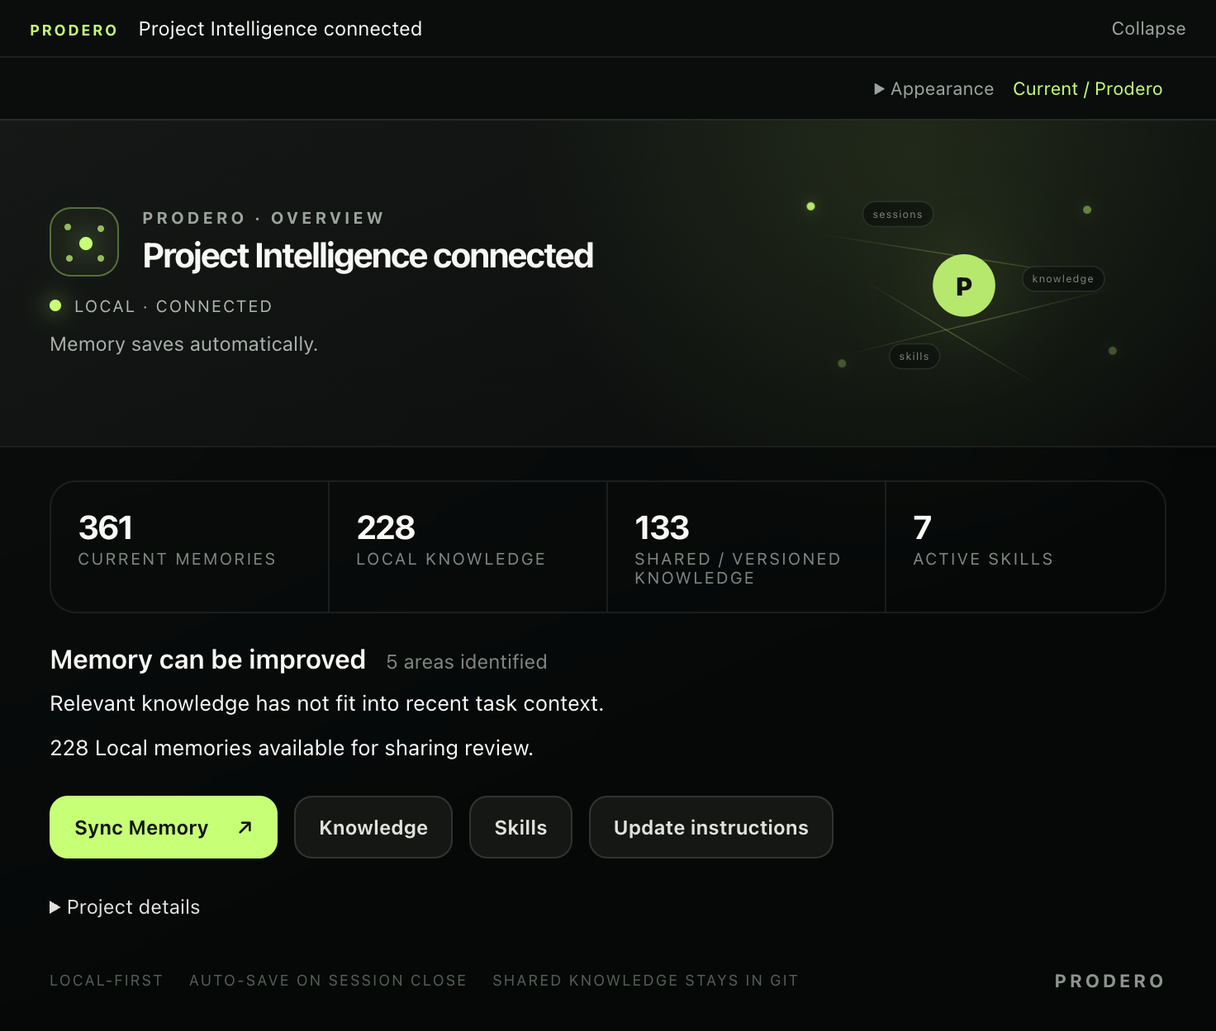
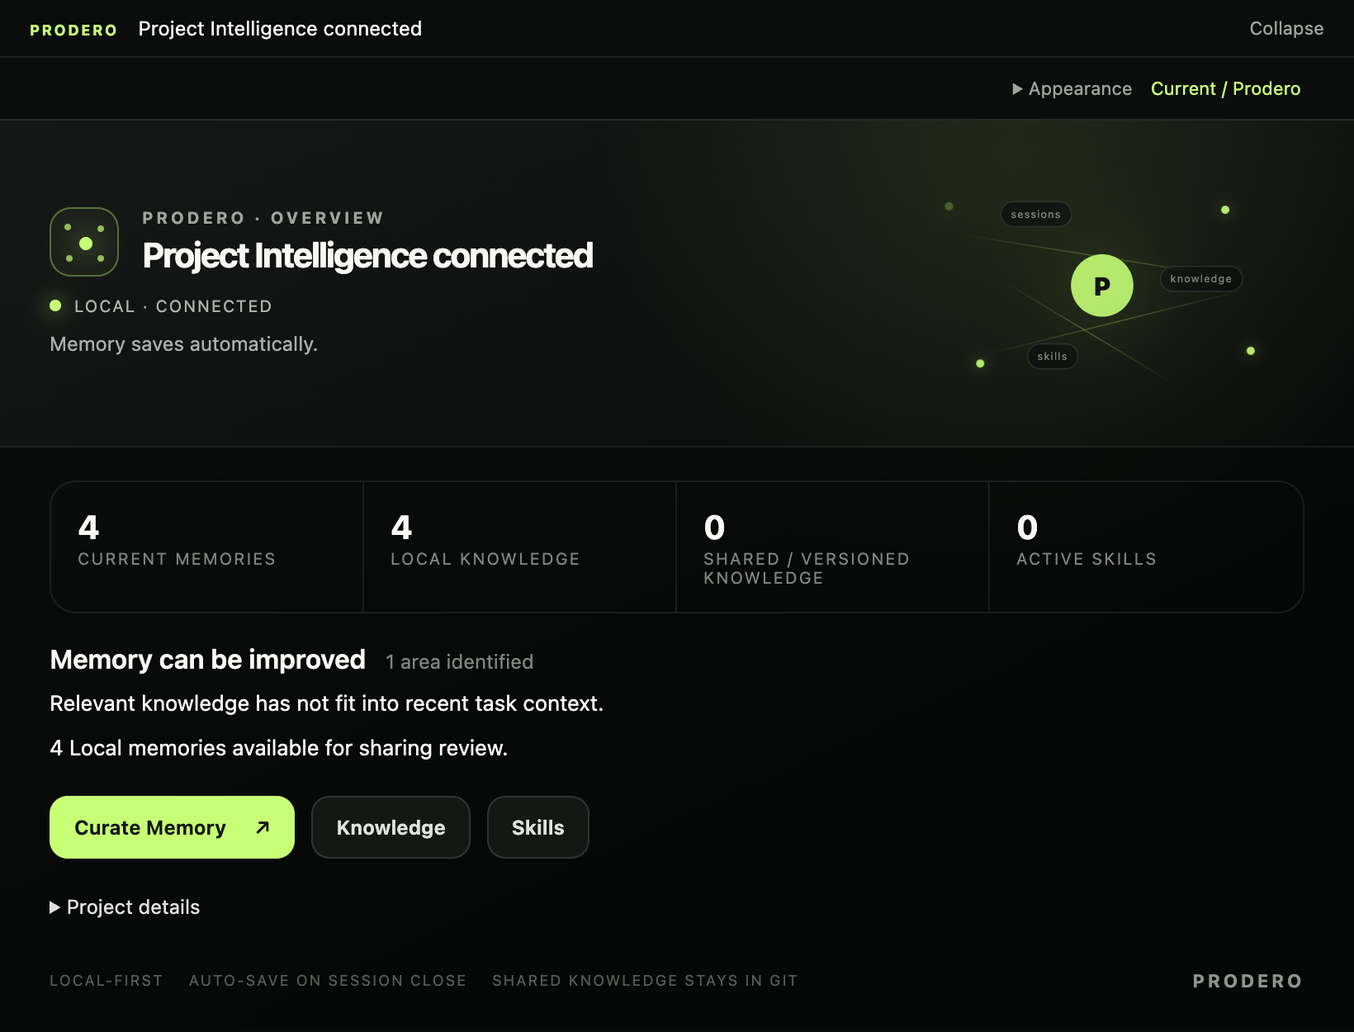
docs: clean up public release copy and refresh Curate Memory screenshot

diff --git a/docs/COMPATIBILITY.md b/docs/COMPATIBILITY.md
@@ -1,6 +1,6 @@
 # Compatibility and verification
 
-This document covers the **0.2.0** release contract and evidence recorded through 2026-10-23. A checkout, local tarball or passing test does not establish npm publication. Artifact evidence must satisfy the [release gates](RELEASING.md) on the final release tree. Supported runtime targets and project/knowledge schemas remain unchanged; see the [changelog](../CHANGELOG.md) for status JSON and local-preference compatibility changes.
+Curator **0.2.0 Public Preview** was published on **2026-10-25**. This page lists supported runtimes, tested clients, verification results and known limitations. See the [changelog](../CHANGELOG.md) for the status JSON and local-preference compatibility changes.
 
 > Contract: Local/Versioned describe Git storage and sharing, not a security boundary against the connected agent. Review and approval are workflow safeguards, not authenticated human consent. The agent may create, promote and maintain Versioned files within current authorization. Curator tools do not execute Git commit or push; coding-agent Git actions follow current user scope and host approval controls. See [Privacy](PRIVACY.md).
 
@@ -9,22 +9,22 @@ Supported runtime target: **Node 22.14.0–22.x**, npm and Git. Node 22.14.0 is 
 | Environment | Status |
 | --- | --- |
 | macOS ARM64, Node 22.14.0 | Tested locally: full tests and isolated release gate |
-| macOS / Ubuntu, Node 22.14.0 and 22.23.3 | Full four-job CI matrix passed on the runtime candidate identified below; final-tree certification requires matching exact-SHA runs |
+| macOS / Ubuntu, Node 22.14.0 and 22.23.3 | Full four-job release matrix passed on the published release commit; see the verification results below |
 | Native Windows | Not supported in 0.2.0; filesystem/Git fixtures and process behavior are not verified |
 | Node 20, 24 or other majors; WSL | Not verified / outside the initial runtime contract |
 
-CI configuration is not evidence that a remote run has passed. Record actual runs before publication.
+The built-in terminal updater additionally requires **npm 10.9.x** and an ordinary same-user global npm installation. Other installation layouts or toolchains need their package manager; see [updates](hosts.md#updates-and-advanced-project-commands).
 
 ## Hosts
 
 | Host | Status / boundary |
 | --- | --- |
 | Codex CLI | Native 0.144.4 on macOS ARM64 passed installed 0.2.0 text lifecycle, persistent retrieval, Local maintenance and promotion preview. No Apps rendering claim from a CLI test. |
-| Codex desktop | The owner reported a successful manual check on 2026-10-23. Exact-build, artifact-bound graphical acceptance is not independently traced; see the owner report below. |
+| Codex desktop | Successful manual check reported by the maintainer on 2026-10-23; detailed build and per-case Apps results were not recorded. |
 | Claude Code | Experimental adapter. Native 2.1.302 on macOS ARM64 passed installed 0.2.0 text lifecycle, persistent retrieval, Local maintenance and promotion preview. This does not certify Claude Desktop or Apps rendering. |
 | Claude Desktop | No installer adapter; not verified. |
-| Codex mobile / iPad | The owner reported a successful Codex Mobile manual check on 2026-10-23 and previously accepted iPad Context Ready / Session Complete. Build/artifact binding and individual case traces were not supplied. |
-| Cursor | Not yet verified against this RC. Workspace and Apps behavior must be checked before claiming support. |
+| Codex mobile / iPad | Successful manual check reported on 2026-10-23, with earlier iPad Context Ready / Session Complete acceptance. |
+| Cursor | Detection-only; workspace and Apps workflows are not verified. |
 | Other MCP hosts | Experimental; require standard stdio tools, optional roots and optional Apps/sampling. |
 
 Use `prodero install` for one global machine integration. New workspaces initialize directly through MCP. Negotiated host roots authorize project selection; Claude's captured host project directory selects the primary root, and supported local Codex stdio launches supply the workspace through their launch directory. `projectRoot` is a checked selector, not authority. Missing supported context fails closed; no manual allowlist, per-project registration or CLI initialization is required. Explicit `--root` remains an optional hard boundary. Both integrations use the absolute public `prodero` executable: `mcp` for the installed package and `mcp --dev` for the saved Curator checkout. The public executable captures workspace context before loading development code. Update old global integration once and reconnect; `npm --prefix` is not a supported outer launcher. Managed PATH resolves the shebang to the verified Node installation. See [host integration](hosts.md) and [workspace trust contract](PRIVACY.md).
@@ -35,11 +35,11 @@ Historical machine-integration verification used isolated HOME and the native gl
 
 Claude Code does not automatically read project `AGENTS.md`. Initialization remains unchanged; experimental Claude users need the host's documented project `CLAUDE.md` import of `@AGENTS.md` for the existing project lifecycle instructions. The installer does not create that project file or move lifecycle instructions into the global launcher. See [host integration](hosts.md). Restart hosts after package updates.
 
-## RC evidence
+## Release verification
 
-The [release gate](RELEASING.md) checks a clean installed artifact, stdio lifecycle, Local storage, reviewed synthetic sharing, restart and synthetic patch upgrade preservation. Synthetic upgrades do not certify future releases or arbitrary schema downgrades. Record results for the exact release candidate.
+The [release gate](RELEASING.md) checks a clean installed artifact, stdio lifecycle, Local storage, reviewed synthetic sharing, restart and synthetic patch upgrade preservation. Synthetic upgrades do not certify future releases or arbitrary schema downgrades.
 
-### Runtime candidate: independently observed
+### Native text checks — 2026-10-23
 
[1 lines of base64/hex data omitted]
 
@@ -47,15 +47,17 @@ On 2026-10-23 both native clients connected only to that installed 0.2.0 candida
 
 Single-session maintenance visibly delivered Context Ready and Saved once in each client. In the batched two-session scenario each client omitted some intermediate receipts; persistence and closure still succeeded. This is an observed agent-relay limitation, not demonstrated knowledge loss. Curator supplies lifecycle text but does not guarantee model/client delivery. Apps rendering, host sampling and physical approval interaction were not independently verified by these CLI runs. Separate deterministic fixtures cover publication mechanics without claiming human UI approval.
 
-### Owner-reported manual acceptance
+### Manual host checks
 
-On 2026-10-23 the owner reported successful manual Curator checks in **Codex Desktop, Claude CLI and Codex Mobile**, following the request for manual Apps acceptance. Record this as **owner-reported acceptance** for those named surfaces. The report did not supply client build versions, an exact candidate executable/hash/SHA, individual case results or an App call trace. It therefore does not establish independently traced results for Apply replay, stale-review handling or model-facing tool filtering, and does not upgrade an unverified host tier. Do not infer that the desktop used a particular dev connection or that the Claude CLI was the exact build used by the independent native test. Candidate binding can be clarified without assuming the entire manual check must be repeated. The previously accepted iPad lifecycle result remains accepted.
+On 2026-10-23 the maintainer reported successful manual checks in **Codex Desktop, Claude CLI and Codex Mobile**. Client build versions, exact artifact identity and individual case traces were not recorded. These reports are separate from the versioned native CLI runs above and do not establish per-case Apps coverage for Apply replay, stale reviews or tool filtering. The earlier iPad lifecycle check also passed by user confirmation. Claude Code remains experimental.
 
-### Final release identity
+### Published 0.2.0 identity
 
-These CI and native results identify the runtime candidate above. Release-note/README/compatibility edits change packaged bytes and produce a different tarball; they do not inherit its archive hash or exact-commit CI status. The final committed release tree requires its own matching package validation and full CI matrix, with host evidence explicitly bound or reconciled to the final artifact. No broader host support is inferred from a successful owner report.
+The published package and [v0.2.0 tag](https://github.com/Prodero/curator/releases/tag/v0.2.0) identify commit **`d180a58017b9e2e32731689411b420fa899aa884`**. Its [full release matrix](https://github.com/Prodero/curator/actions/runs/39999946126) passed all four macOS/Ubuntu × Node 22.14.0/22.23.3 jobs, each with **1,453 tests and 16 installed-artifact smoke groups**. [Post-main CI](https://github.com/Prodero/curator/actions/runs/40132635896) and the [tag matrix](https://github.com/Prodero/curator/actions/runs/40175313983) also passed on that same SHA. Counts overlap and are not additive.
 
-Passing configured remote CI jobs on the final RC commit remains required before publication. Local protocol checks do not certify other Node/OS combinations or host App rendering.
[1 lines of base64/hex data omitted]
+
+Compared with the native-tested runtime candidate above, the published artifact changes four Markdown files; the other 144 payload files, including runtime, App, plugin and instruction assets, are identical. This preserves the scope of those native checks without treating the two archive hashes as interchangeable. The frozen tag and archive describe the published package even when documentation on `main` is updated later. CI does not expand the supported Node/OS or host Apps coverage listed here.
 
 Codex setup and per-tool configuration reference: [official configuration reference](https://developers.openai.com/codex/config-reference).
 

diff --git a/docs/hosts.md b/docs/hosts.md
@@ -121,17 +121,17 @@ prodero status --json
 prodero status --root /absolute/path/to/project --json
 prodero check-update
 prodero update
-prodero update 0.2.0 --yes  # example exact target, only when actually published
+prodero update 0.2.0 --yes
 prodero install
 ```
 
 `check-update` reports the installed and public latest npm version when reachable, availability and the terminal command `prodero update`. An unpublished, disabled or unreachable registry is unavailable, not current. In Codex/Claude the update indicator only opens these instructions. The compatibility MCP tool `prodero_update` is read-only for every release source; it does not install, rebuild, stage or refresh project integration.
 
-`prodero update` in a terminal really updates the installed package. It verifies the current ordinary per-user npm-global installation, previews an exact stable newer version and unchanged prefix, asks you to finish active work and close Codex/Claude, then requires explicit confirmation. `prodero update VERSION` selects an exact stable target; ranges/tags/URLs/downgrades are rejected and an already-current target is a no-op. There is no automatic process discovery or host termination. Do not launch another consumer or package-manager operation during installation. Restart your hosts afterward.
+`prodero update` updates the installed package from a terminal. The built-in updater supports **Node 22.14–22.x with npm 10.9.x** and an ordinary same-user global npm installation. It verifies that installation, previews an exact stable newer version and unchanged prefix, asks you to finish active work and close Codex/Claude, then requires explicit confirmation. `prodero update VERSION` selects an exact stable target; ranges/tags/URLs/downgrades are rejected and an already-current target is a no-op. There is no automatic process discovery or host termination. Do not launch another consumer or package-manager operation during installation. Restart your hosts afterward.
 
-For non-interactive use, provide both an exact target and explicit acknowledgment: `prodero update VERSION --yes`. The flag acknowledges that active work has ended and hosts are closed; the updater does not verify this. Without both, a non-TTY command refuses instead of waiting or silently agreeing. Use only an actually published version in place of VERSION; examples are not release announcements.
+For non-interactive use, provide both an exact target and explicit acknowledgment: `prodero update VERSION --yes`. Replace VERSION with the published version you want to install. The flag acknowledges that active work has ended and hosts are closed; the updater does not verify this. Without both, a non-TTY command refuses instead of waiting or silently agreeing.
 
-The CLI waits for npm and checks the resulting installed version/public command. Failure exits nonzero with repair guidance; npm can leave a partial installation and there is no atomic rollback or hot activation. Source checkouts, linked/alternate package-manager layouts, mismatched installs and inadequate permissions are unsupported. Review the reported package-manager/path guidance; never use automatic sudo or change ownership to bypass it. Ordinary npm dependency resolution remains in effect; top-level artifact verification is not an exact offline dependency-closure guarantee. Prebuilt packages are installed with lifecycle scripts disabled and must pass installed-artifact smoke.
+The CLI waits for npm and checks the resulting installed version/public command. Failure exits nonzero with repair guidance; npm can leave a partial installation and there is no atomic rollback or hot activation. Source checkouts, linked/alternate package-manager layouts, other npm versions, mismatched installs and inadequate permissions are unsupported by this updater; use the installation's package manager instead. Follow the reported package-manager/path guidance without using sudo or changing ownership to bypass a refusal. Ordinary npm dependency resolution remains in effect: the top-level artifact is verified, but the transitive dependency tree is not promised to be frozen or available offline. Prebuilt packages are installed with lifecycle scripts disabled.
 
 Package update does not migrate projects, rewrite host settings/receipts/preferences or switch dev mode. A host saved in dev mode continues to load its existing checkout: updated package is distinct from active dev runtime. After restart, Open/Prepare separately present required project/knowledge migration for review; CLI `migrate` explicitly applies a permitted update. Back up the whole `.prodero` directory before preview migrations and do not downgrade to a runtime unable to read its schema.
 

diff --git a/README.md b/README.md
@@ -2,8 +2,6 @@
 
 **Project memory for Codex and Claude Code.**
 
-> **0.2.0 release materials.** The npm command below requires 0.2.0 to be published. For review before publication, use the exact candidate tarball and isolated setup in [the release guide](docs/RELEASING.md). A checkout or local tarball does not establish registry availability. See [0.2.0 changes](CHANGELOG.md) and [verification limits](docs/COMPATIBILITY.md).
-
 Keep project decisions, conventions, and lessons across sessions, right inside your coding assistant.
 
 **Install in two commands → open Codex or Claude Code → type prodero.**
@@ -13,7 +11,7 @@ npm install --global @prodero/curator@0.2.0
 prodero install
 ```
 
-Requires **Node.js >=22.14.0 <23**, npm and Git. **v0.2.0 preview release.** Codex CLI has native text-workflow evidence; Claude Code remains experimental, with native text-workflow evidence. See the [compatibility matrix](docs/COMPATIBILITY.md).
+Requires **Node.js >=22.14.0 <23**, npm and Git. **v0.2.0 Public Preview.** Codex CLI is tested; Claude Code remains experimental. See the [compatibility matrix](docs/COMPATIBILITY.md).
 
 1. In the installation wizard, select **Codex** or **Claude Code**, confirm the setup and choose **Finish**.
 2. Reopen Codex or Claude Code in your repository and type **`prodero`** in chat.
@@ -21,7 +19,9 @@ Requires **Node.js >=22.14.0 <23**, npm and Git. **v0.2.0 preview release.** Cod
 
 For Claude Code, also create or update the project’s `CLAUDE.md` to import `@AGENTS.md`. The installer does not create that file. See the [setup guide](docs/hosts.md).
 
-![Prodero Curator overview in the coding assistant](docs/images/prodero-overview-cropped.png)
+![Curator App overview with Curate Memory](docs/images/prodero-overview-cropped.png)
+
+*Current Curator App with demonstration project data.*
 
 ## Relevant context, automatically
 
@@ -68,7 +68,7 @@ The generated `.prodero/index.md` can include active **Local skill titles and pa
 
 ## Compatibility and limitations
 
-**Codex CLI 0.144.4 and Claude Code 2.1.302 passed native text workflows with the installed 0.2.0 runtime candidate.** Claude Code remains experimental. On 2026-10-23 the owner reported successful manual checks in Codex Desktop, Claude CLI and Codex Mobile. This is owner-reported acceptance; client build versions and an exact artifact/SHA binding were not supplied, so it is not independently traced per-case Apps certification. Cursor is detection-only, and there is no Claude Desktop installer.
+Codex CLI and Claude Code were tested with text workflows. The maintainer also reported successful manual checks in Codex Desktop, Claude CLI and Codex Mobile. Claude Code remains experimental; Cursor is detection-only, and there is no Claude Desktop installer. Tested versions and the scope of these checks are listed in the [compatibility matrix](docs/COMPATIBILITY.md).
 
 MCP Apps, workspace roots and sampling support vary by host. Text mode supports core workflows, but App-only curation review/apply is unavailable through the text gateway. See the [host/runtime matrix](docs/COMPATIBILITY.md) and [setup guide](docs/hosts.md).
 
@@ -91,4 +91,4 @@ Curator is [MIT licensed](LICENSE).
 
 ### Updating the installed core
 
-Codex/Claude show an available-version indicator and terminal instructions only. Run `prodero update` in your terminal, finish active work and close the hosts when prompted, then explicitly confirm. Restart the hosts after completion. Project knowledge migration is offered separately on Open/Prepare; package update preserves saved dev selection and preferences. See [update and non-interactive options](docs/hosts.md#commands-and-status).
+Codex/Claude show an available-version indicator and terminal instructions only. Run `prodero update` in your terminal, finish active work and close the hosts when prompted, then explicitly confirm. Restart the hosts after completion. The built-in updater supports a same-user global npm installation with **npm 10.9.x**; use your package manager for other installation layouts or toolchains. Project knowledge migration is offered separately on Open/Prepare; package update preserves saved dev selection and preferences. See [update and non-interactive options](docs/hosts.md#updates-and-advanced-project-commands).

diff --git a/docs/RELEASING.md b/docs/RELEASING.md
@@ -1,4 +1,4 @@
-# Release candidate gate
+# Releasing Curator
 
 From a clean checkout on Node 22.14+ (22.x):
 
@@ -73,10 +73,10 @@ A protocol runner is not a real host. Independently connect a primary host to th
 
 ## Install the artifact for review
 
-For an unpublished candidate, install the reviewed tarball into an isolated prefix rather than requesting its version from the registry. The current candidate version is 0.2.0; this command is an example for a separately authorized isolated environment, not a request to replace the working installation:
+For an unpublished release candidate, install its reviewed tarball in an isolated prefix. Keep this installation separate from your working MCP setup. Replace `X.Y.Z` and the example paths below with the intended release version and artifact locations:
 
 ```sh
-npm install --global --prefix /absolute/isolated/prefix --omit=dev --ignore-scripts /absolute/path/prodero-curator-0.2.0.tgz
+npm install --global --prefix /absolute/isolated/prefix --omit=dev --ignore-scripts /absolute/path/prodero-curator-X.Y.Z.tgz
 ```
 
 Use the isolated host environment described above for automated verification. For a deliberate real-host check, review the installer’s configuration changes and restart the selected coding agent. Open a synthetic project and type `prodero`. The tarball includes the compiled server, Apps and plugin resources; no source checkout or development dependencies are needed.
@@ -87,9 +87,9 @@ Use the isolated host environment described above for automated verification. Fo
 2. Review the intended public Git tree **and history** for private content. Ignoring runtime files today does not remove old commits. Decide explicitly what history to publish; never rewrite it automatically.
 3. Confirm ownership of npm scope `@prodero`, package/repository identity `@prodero/curator` / `prodero/curator`, and permission to release. A registry 404 does not establish scope ownership.
 4. Create/configure the intended public repository only with explicit approval. Enable Issues and private vulnerability reporting; verify the links and update any identity/channel changes in docs and package metadata.
-5. Confirm candidate version `0.2.0`, MIT license, final changelog date, preview limitations, README registry example and exact artifact contents. If any edit is still needed, return to step 1 and certify the new artifact. Obtain explicit approval for publication.
-6. Authenticate npm with the account's required 2FA/provenance policy. Publish the **reviewed tarball**, not an unreviewed rebuild: `npm publish /absolute/path/prodero-curator-0.2.0.tgz --access public`.
-7. Verify external `npm install --global @prodero/curator@0.2.0`, `prodero --version` and `prodero check-update`. Only with separate approval create/push the `v0.2.0` tag and release notes or announcements.
+5. Confirm the intended version, MIT license, final changelog date, preview limitations, README installation example and exact artifact contents. If any edit is still needed, return to step 1 and certify the new artifact. Obtain explicit approval for publication.
+6. Authenticate npm with the account's required 2FA/provenance policy. Publish the **reviewed tarball**, not an unreviewed rebuild: `npm publish /absolute/path/prodero-curator-X.Y.Z.tgz --access public`.
+7. Verify external `npm install --global @prodero/curator@X.Y.Z`, `prodero --version` and `prodero check-update`. Only with separate approval create/push the matching `vX.Y.Z` tag and release notes or announcements.
 
 The automated gate does not publish or push and does not change the source repository history. It creates an isolated disposable test commit in its temporary checkout. Package upgrades do not move project knowledge. Back up the full `.prodero` directory before preview upgrades; `.cache` is disposable, migration recovery backups are not.
 

diff --git a/CHANGELOG.md b/CHANGELOG.md
@@ -1,8 +1,6 @@
 # Changelog
 
-## 0.2.0
-
-Release notes finalized 2026-10-23. This is the preparation date; registry publication is a separate maintainer action.
+## 0.2.0 — 2026-10-25 (Public Preview)
 
 - **Curate Memory** replaces the Memory Sync user-facing name, with existing MCP tool IDs and saved workflows retained. Retry/expired analysis, saved answers, deferred questions and Revisit resume reliably; partial progress and remaining work stay visible.
 - Text mode uses the shared Telemetry/Pulse layout with letter-bound knowledge entries, exact numeric actions, complete review bodies and mobile-width output. Prepare continues automatically; Prepare/Close retain a compact fallback when an App is invisible, without repeating Core calls.
@@ -15,7 +13,7 @@ Release notes finalized 2026-10-23. This is the preparation date; registry publi
 - Incomplete provenance diagnostics no longer imply proven loss of history; no provenance backfill or canonical storage redesign is included.
 - Session writers serialize lock acquisition, stale-owner recovery and release under the same transition guard, preventing a stale PID decision from deleting a successor's lock. Deterministic process barriers and acknowledgment-preservation stress regressions cover record/close concurrency; unknown owners and interrupted guards remain fail-closed.
 
-Project schema remains **8** and knowledge schema remains **3**. No canonical schema migration is added by this version bump. See [compatibility and evidence limits](docs/COMPATIBILITY.md) for exact-SHA CI, installed-artifact native checks and the owner-reported manual acceptance. The final release tree and artifact must satisfy the [release gates](docs/RELEASING.md); these notes do not announce registry availability.
+Project schema remains **8** and knowledge schema remains **3**. This release adds no canonical schema migration. See [compatibility and verification](docs/COMPATIBILITY.md) for tested clients, platforms and the published package identity.
 
 ## 0.1.0 — 2026-10-15 (Public Preview)
 

diff --git a/VERSIONING.md b/VERSIONING.md
@@ -1,6 +1,6 @@
 # Prodero Curator versioning
 
-Use Semantic Versioning: `MAJOR.MINOR.PATCH`. This checkout prepares **v0.2.0** (`0.2.0` in package metadata), following the v0.1 Public Preview baseline. A local version bump or candidate tarball does not announce publication. Package identity comes from `package.json`; `prodero.release.json` independently owns the project and knowledge schema versions.
+Use Semantic Versioning: `MAJOR.MINOR.PATCH`. Package identity comes from `package.json`; `prodero.release.json` independently owns the project and knowledge schema versions. Published versions and their changes are listed in [the changelog](CHANGELOG.md).
 
 Versions are incremented for **releases**, not individual commits or internal development phases.
 
